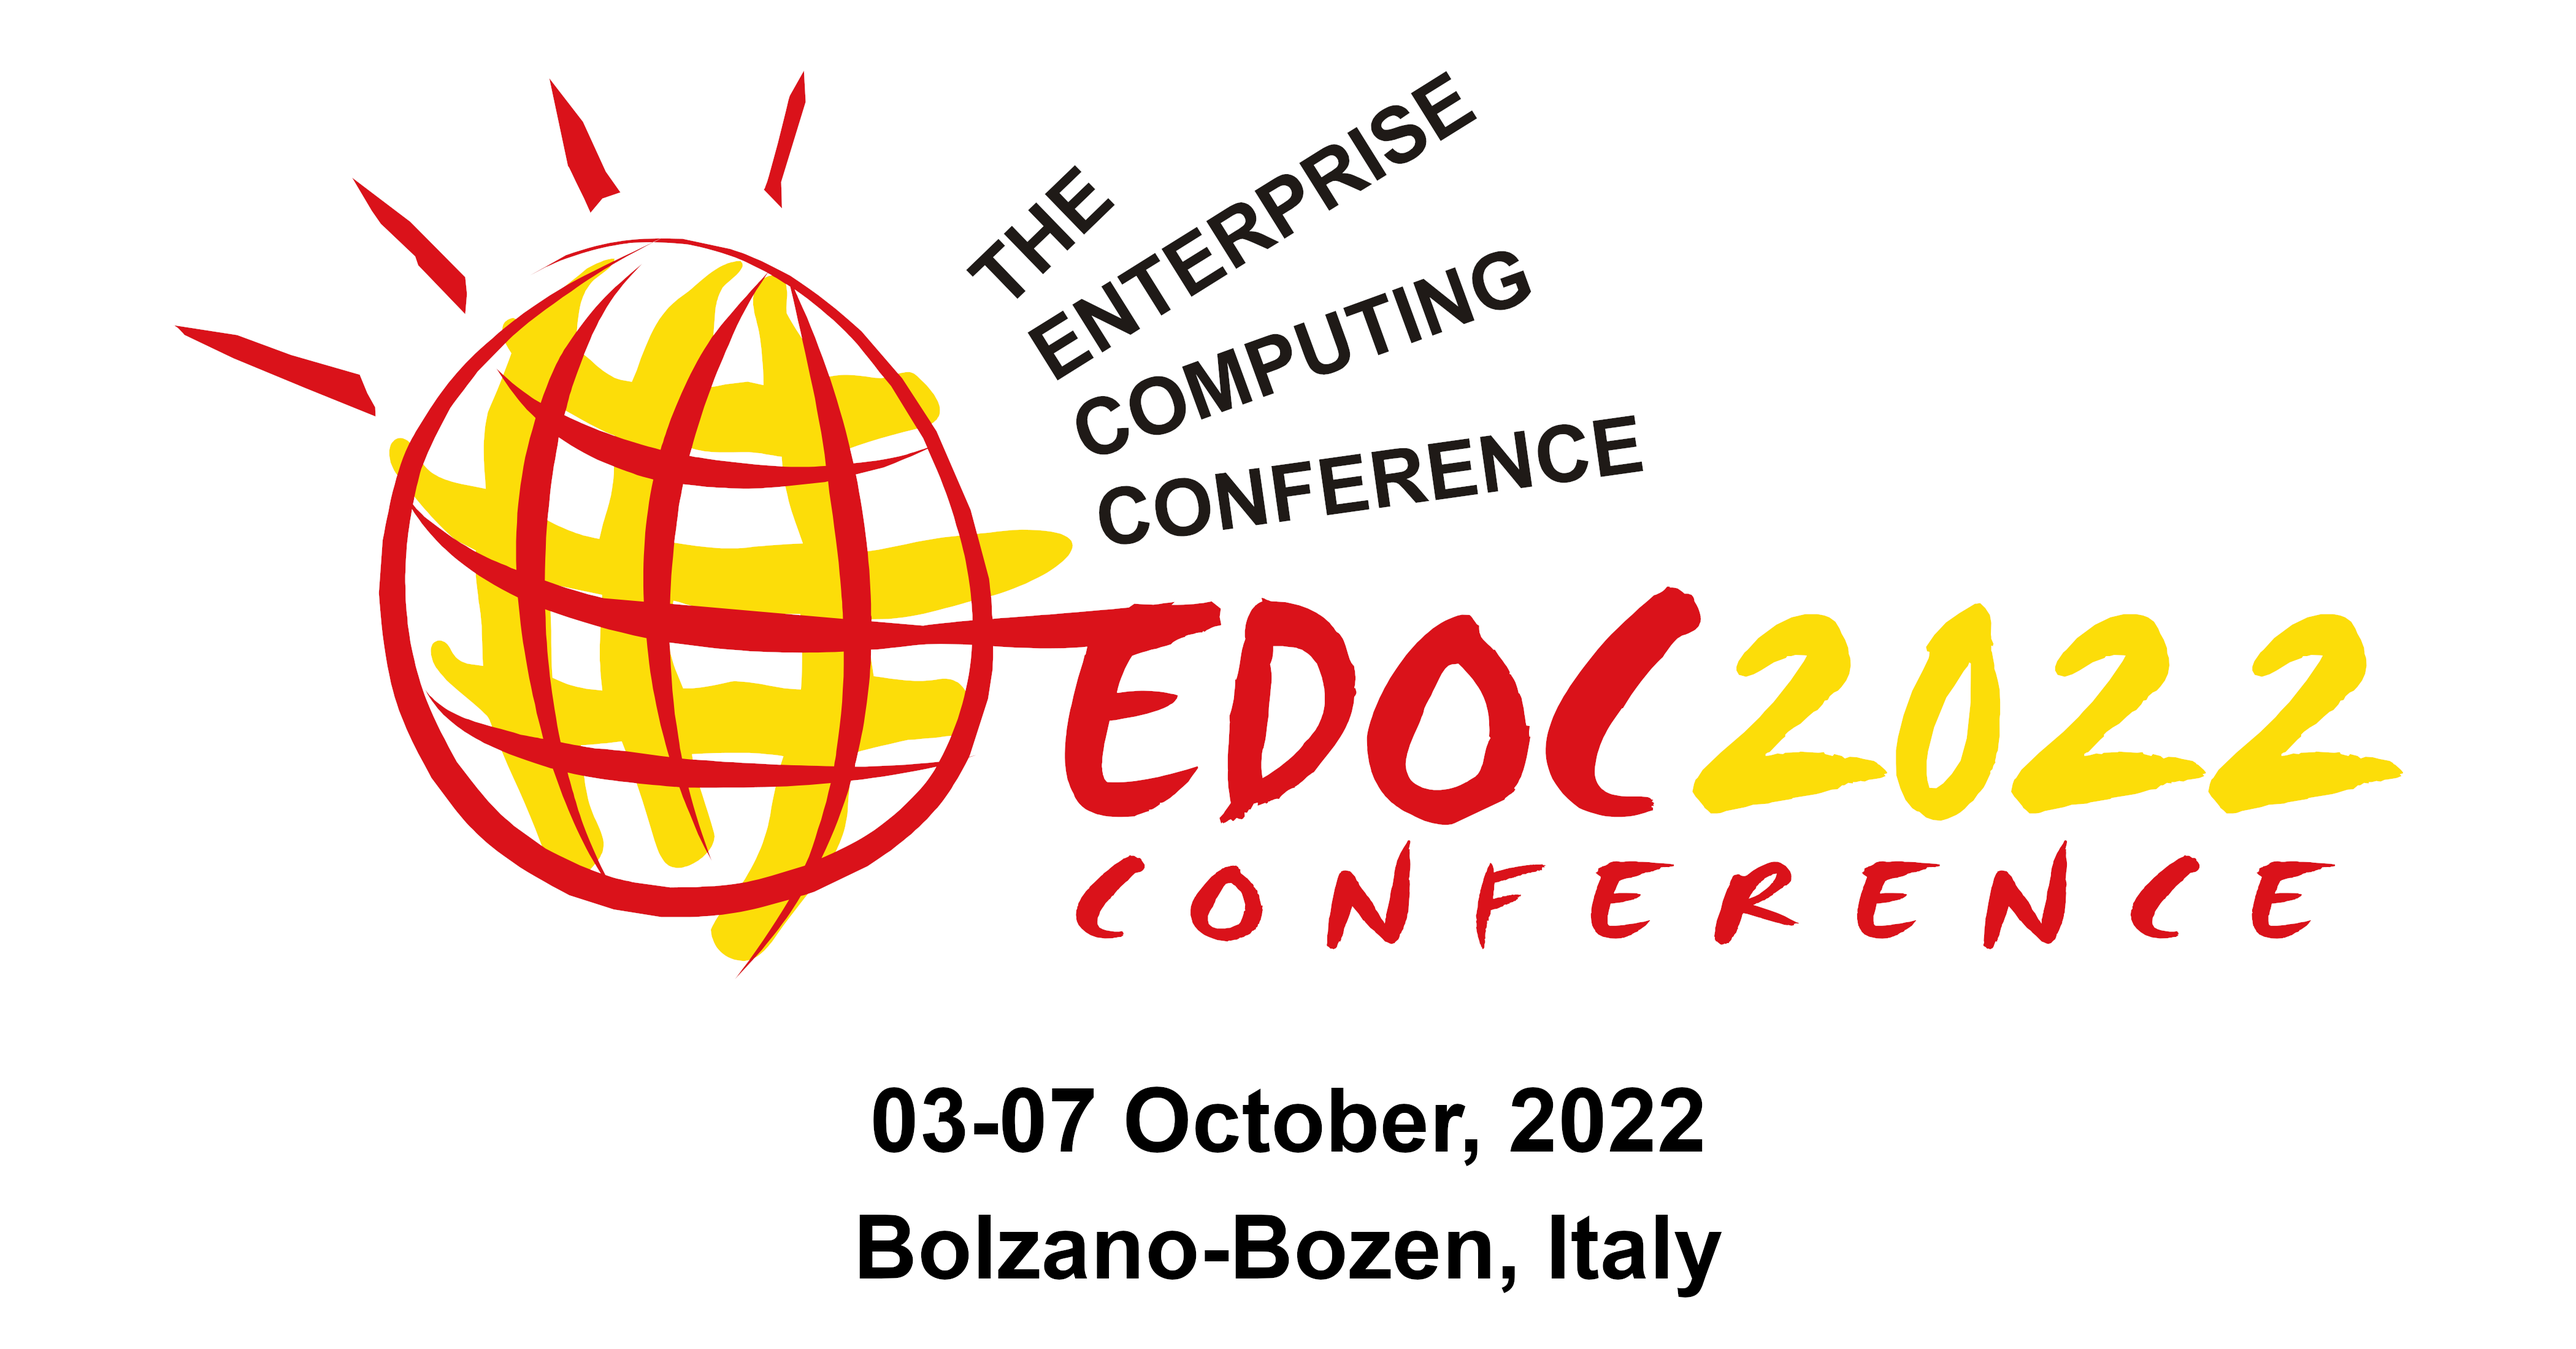
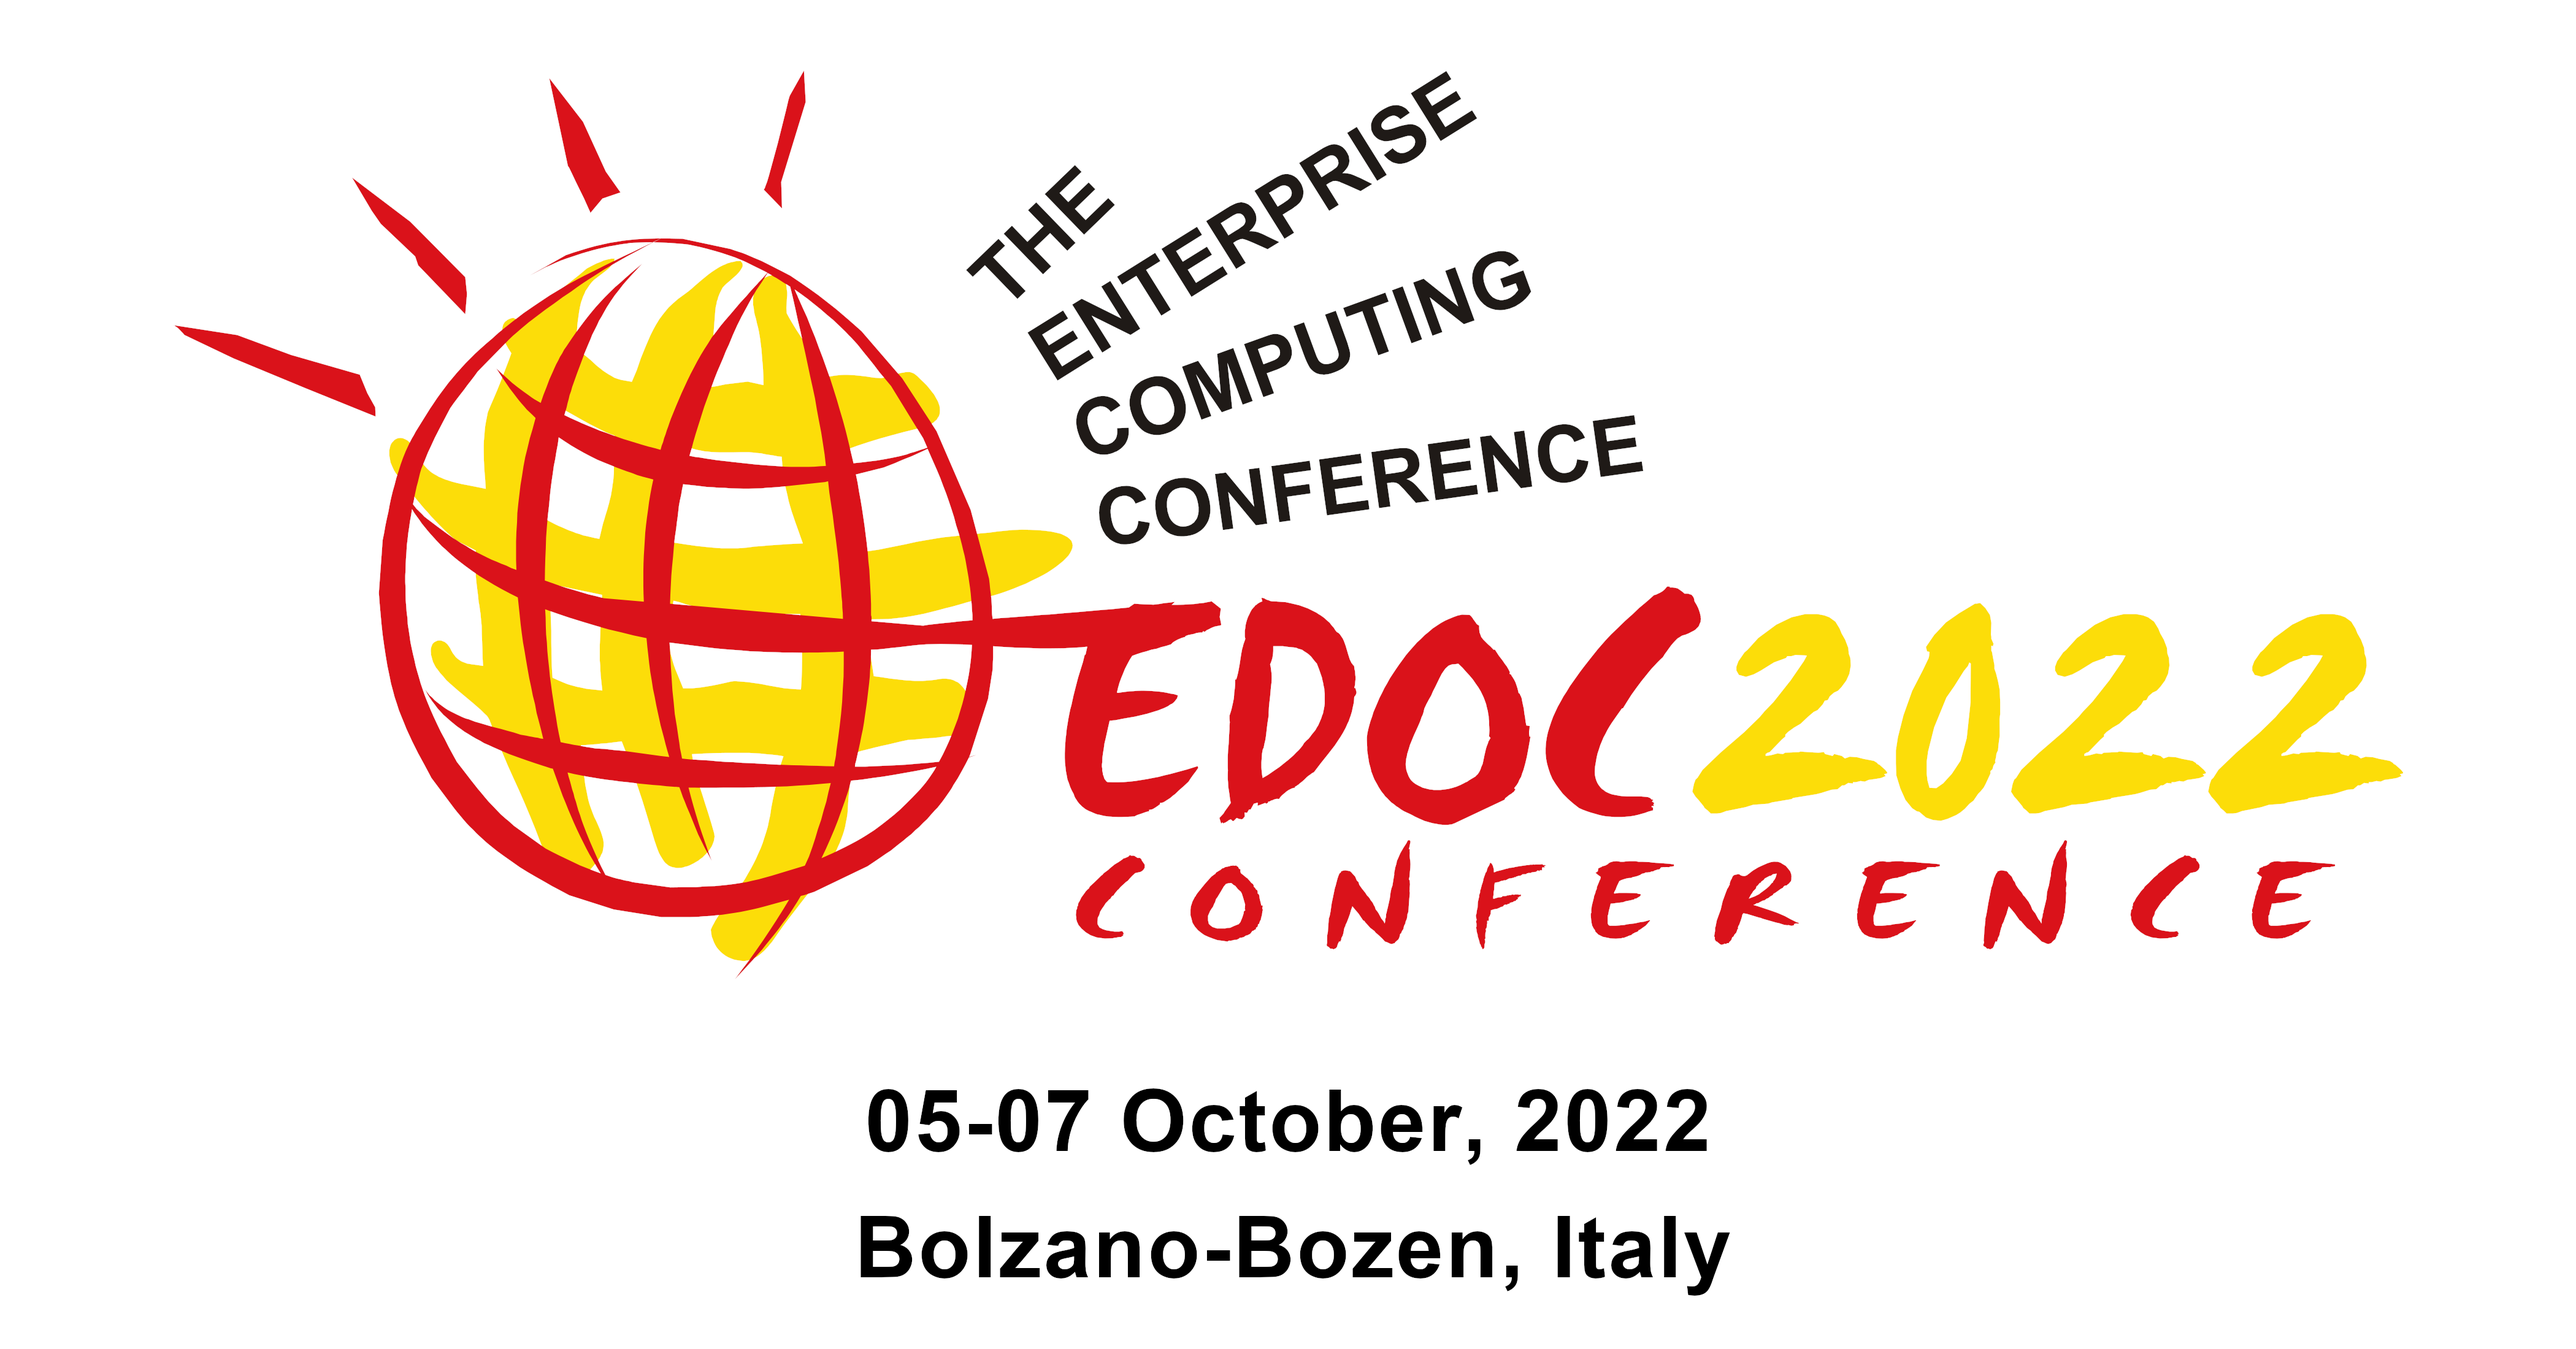
Update dates

Changed region(s): [[0.3431, 0.8036, 0.655, 0.8655], [0.4679, 0.8964, 0.6862, 0.9582], [0.4055, 0.9273, 0.4367, 0.9582]]

diff --git a/src/pages/404.js b/src/pages/404.js
@@ -4,17 +4,19 @@ import Layout from '../components/Layout';
 import Header from '../components/Header';
 import { Link } from 'gatsby';
 
+import edocLogoWhite from '../assets/images/edoc2022-tyrol-white-contour-large.png';
+
 const NotFoundPage = () => (
   <Layout>
     <Header />
-    <header className="secondaryhead">
+    <header className="masthead">
       <div className="container d-flex h-100 align-items-center">
         <div className="mx-auto text-center">
-          <h1 className="mx-auto my-0 text-uppercase">Page not found</h1>
-          <h2 className="text-white-50 mx-auto mt-2 mb-5">Not a valid URL</h2>
+          <img src={edocLogoWhite} className="img-fluid" alt="The Enterprise Computing Conference" />
+          <h2 className="text-white mx-auto mt-2 mb-5">Page not found</h2>
 
           <Link to="/" className="btn btn-primary">
-            Go Home
+            HOME
           </Link>
         </div>
       </div>

diff --git a/src/pages/index.js b/src/pages/index.js
@@ -1,5 +1,4 @@
 import React from 'react';
-import { Helmet } from 'react-helmet';
 import { Link } from 'gatsby';
 
 import Layout from '../components/Layout';
@@ -7,18 +6,11 @@ import Footer from '../components/Footer';
 import SocialLinks from '../components/SocialLinks';
 import Header from '../components/Header';
 
-import edocLogoWhite from '../assets/images/edoc2022-tyrol-date-place-white-contour-large-2.png';
+import edocLogoWhite from '../assets/images/edoc2022-tyrol-date-place-white-contour-large.png';
 import ipad from '../assets/images/unibz-main-building.jpg';
 
 const IndexPage = () => (
-  <Layout>
-    <Helmet>
-      <meta charSet="utf-8" />
-      <meta httpEquiv='Cache-Control' content='no-store'/>
-      {/* <title>My Title</title>
-      <link rel="canonical" href="http://mysite.com/example" /> */}
-    </Helmet>
-    
+  <Layout>    
     <Header />
 
     <header className="masthead">
